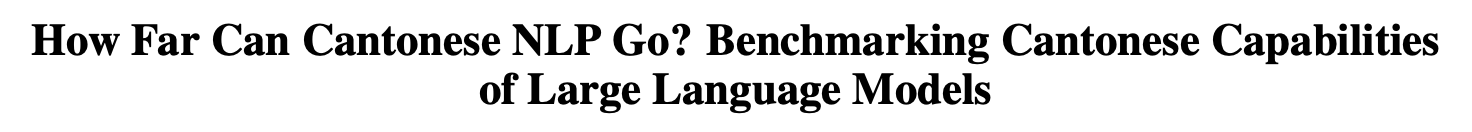
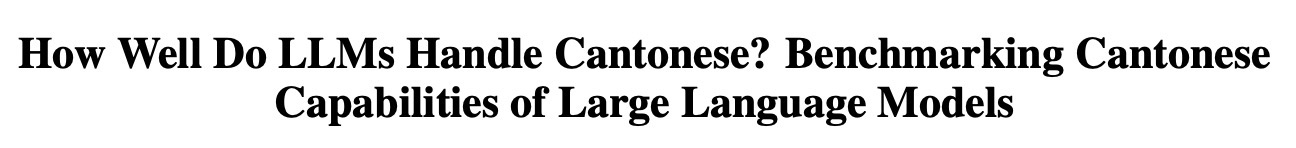
title updated

Changed region(s): [[0.0, 0.1818, 0.9877, 0.5152], [0.216, 0.5455, 0.8025, 0.8788]]

diff --git a/README.md b/README.md
@@ -1,4 +1,4 @@
-# How Far Can Cantonese NLP Go? Benchmarking Cantonese Capabilities of Large Language Models
+# How Well Do LLMs Handle Cantonese? Benchmarking Cantonese Capabilities of Large Language Models
 
 
 

diff --git a/README_CN.md b/README_CN.md
@@ -1,4 +1,4 @@
-# How Far Can Cantonese NLP Go? Benchmarking Cantonese Capabilities of Large Language Models
+# How Well Do LLMs Handle Cantonese? Benchmarking Cantonese Capabilities of Large Language Models
 
 
 
